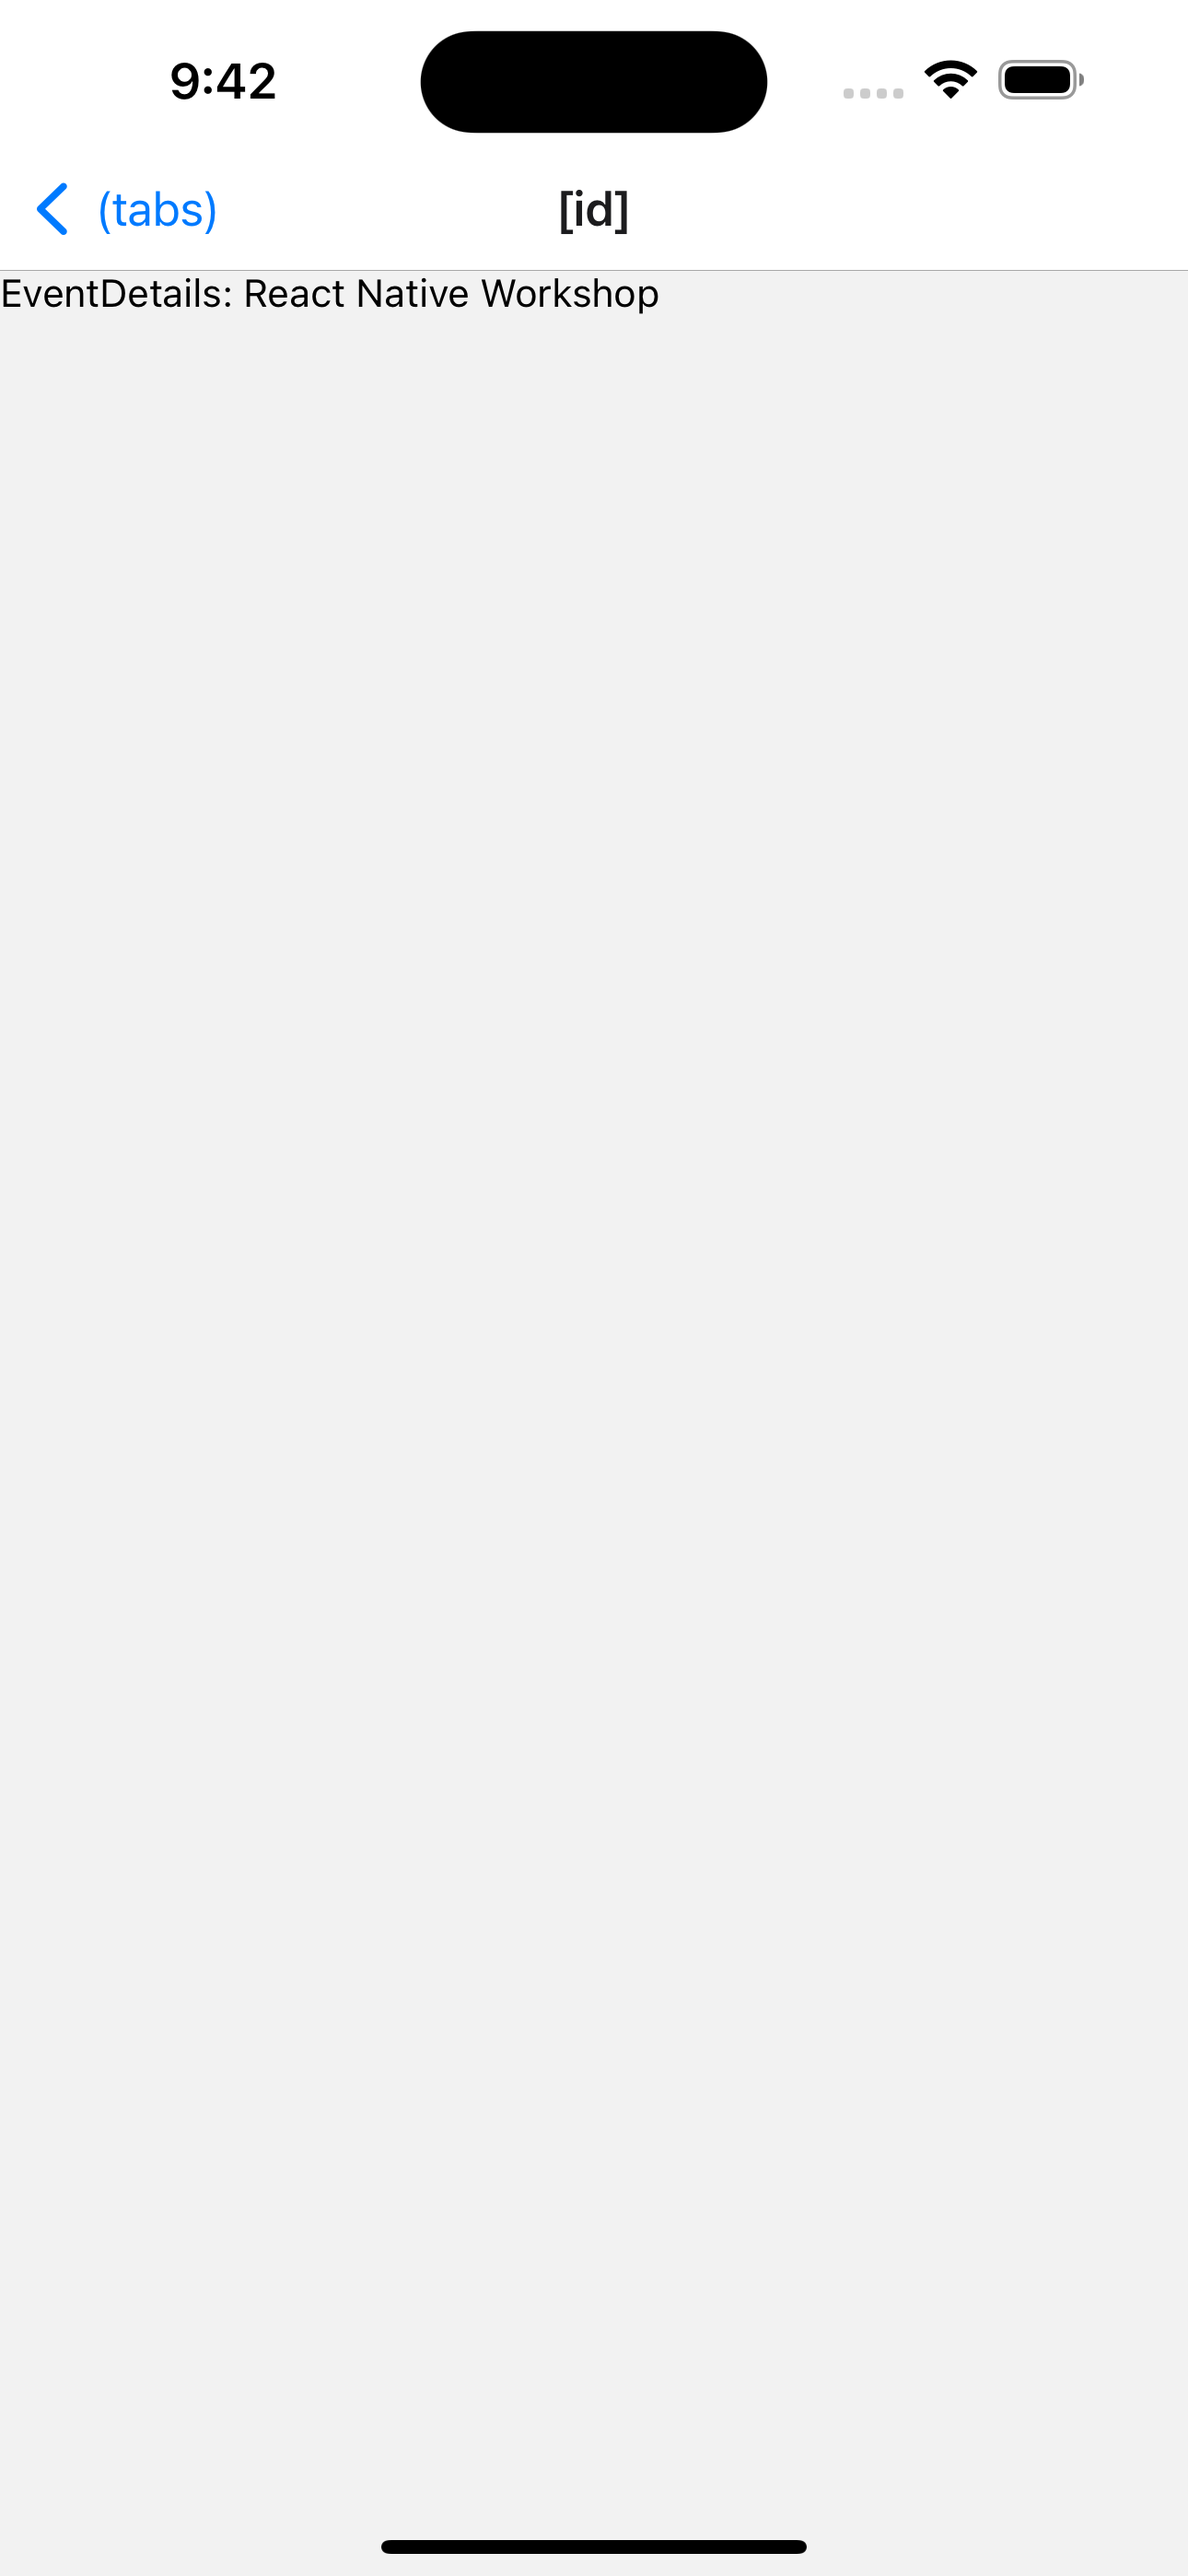
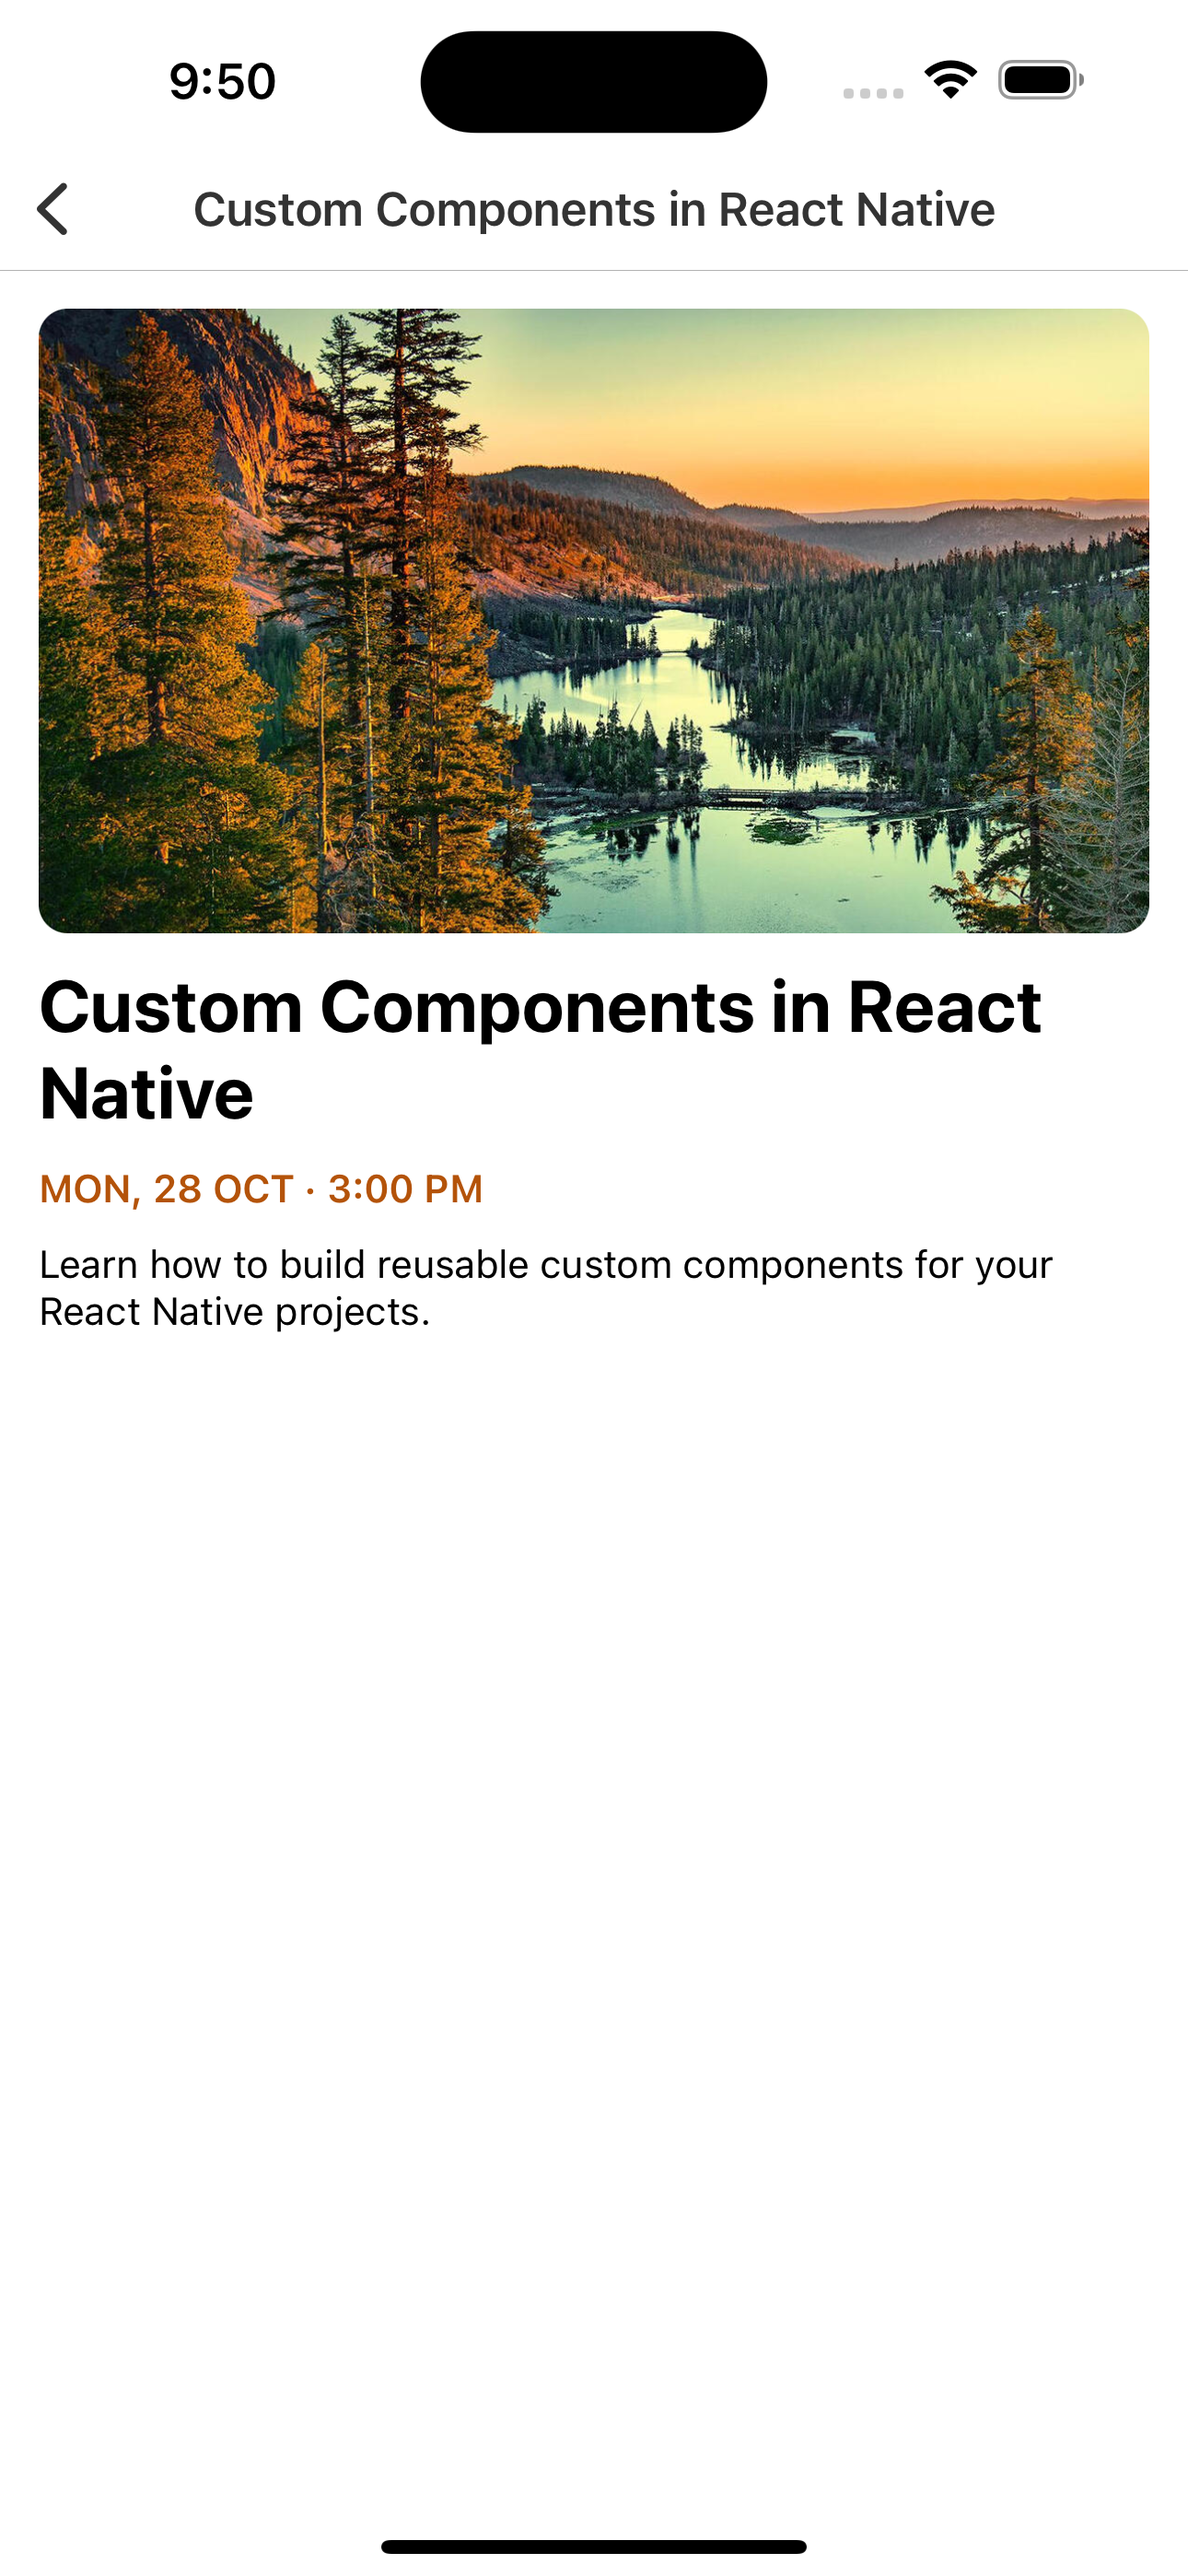
wip: event details page data

diff --git a/app/[id].tsx b/app/[id].tsx
@@ -1,6 +1,7 @@
-import { useLocalSearchParams } from 'expo-router';
+import dayjs from 'dayjs';
+import { Stack, useLocalSearchParams } from 'expo-router';
 import React from 'react';
-import { Text, View } from 'react-native';
+import { Image, Text, View } from 'react-native';
 
 import events from '@/assets/events.json';
 
@@ -9,10 +10,28 @@ const EventDetails = () => {
 
   const event = events.find((e) => e.id === id);
 
+  if (!event) {
+    return <Text>Event not found</Text>;
+  }
+
   return (
-    <View>
-      <Text>EventDetails: {event?.title}</Text>
-    </View>
+    <>
+      <Stack.Screen
+        options={{ title: event?.title, headerBackTitleVisible: false, headerTintColor: '#333' }}
+      />
+      <View className="flex-1 gap-3 bg-white p-4">
+        <Image className="aspect-video w-full rounded-xl" source={{ uri: event.image }} />
+        <Text className="text-3xl font-bold" numberOfLines={2}>
+          {event.title}
+        </Text>
+        <Text className="text-md font-semibold uppercase text-amber-700">
+          {dayjs(event.datetime).format('ddd, D MMM')} · {dayjs(event.datetime).format('h:mm A')}
+        </Text>
+        <Text className="text-md" numberOfLines={2}>
+          {event.description}
+        </Text>
+      </View>
+    </>
   );
 };
 
